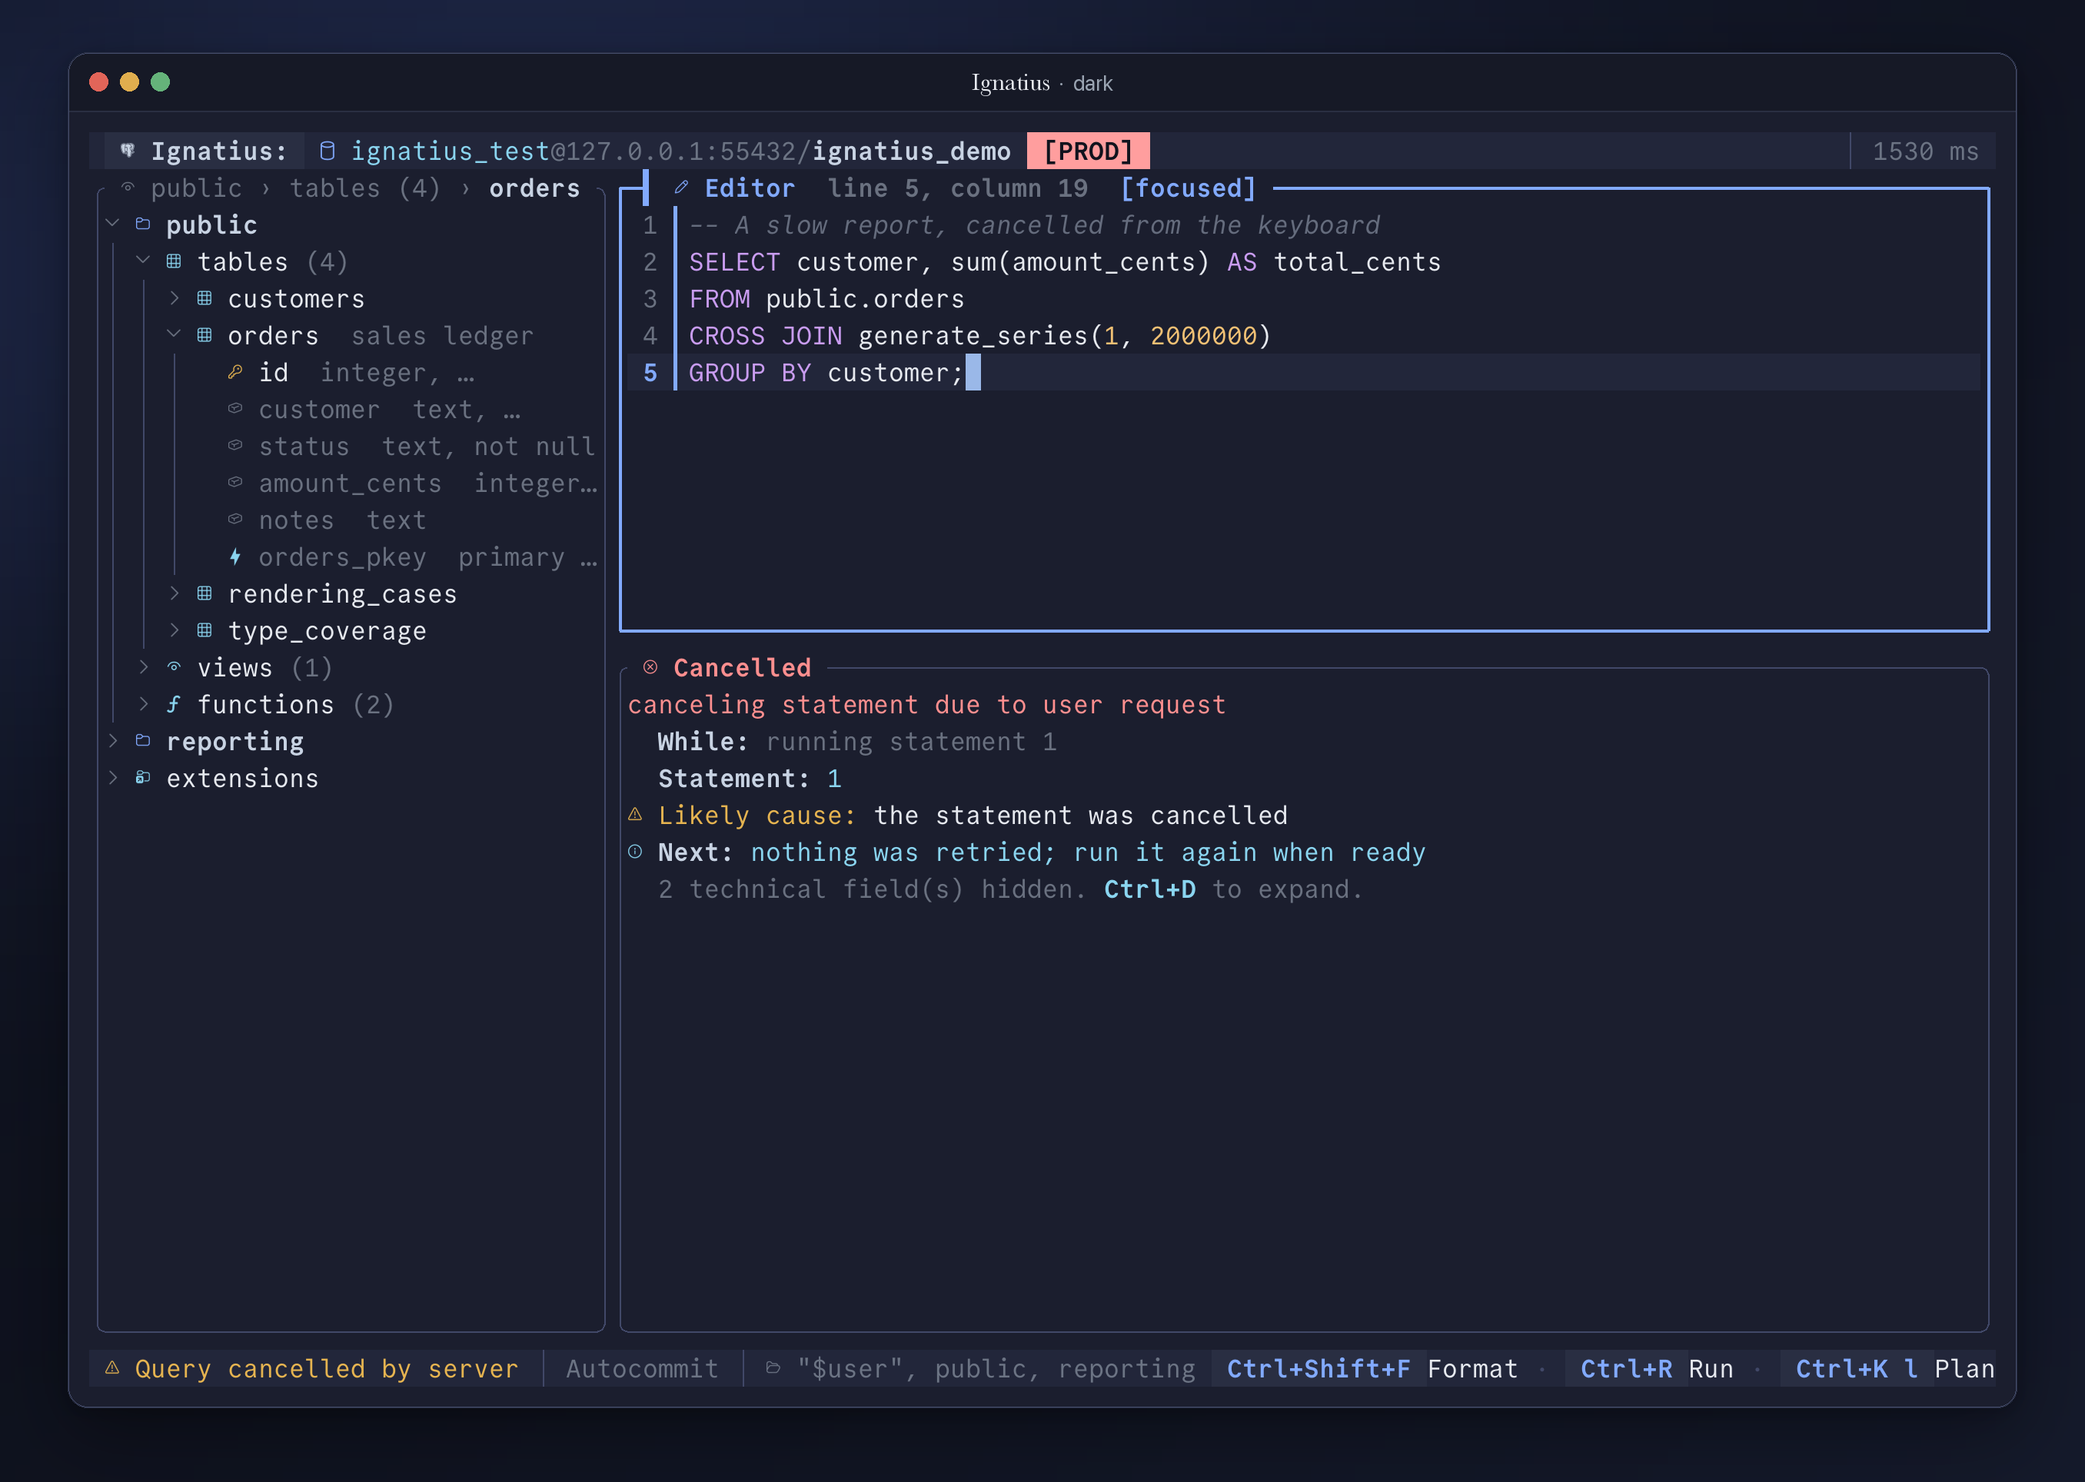
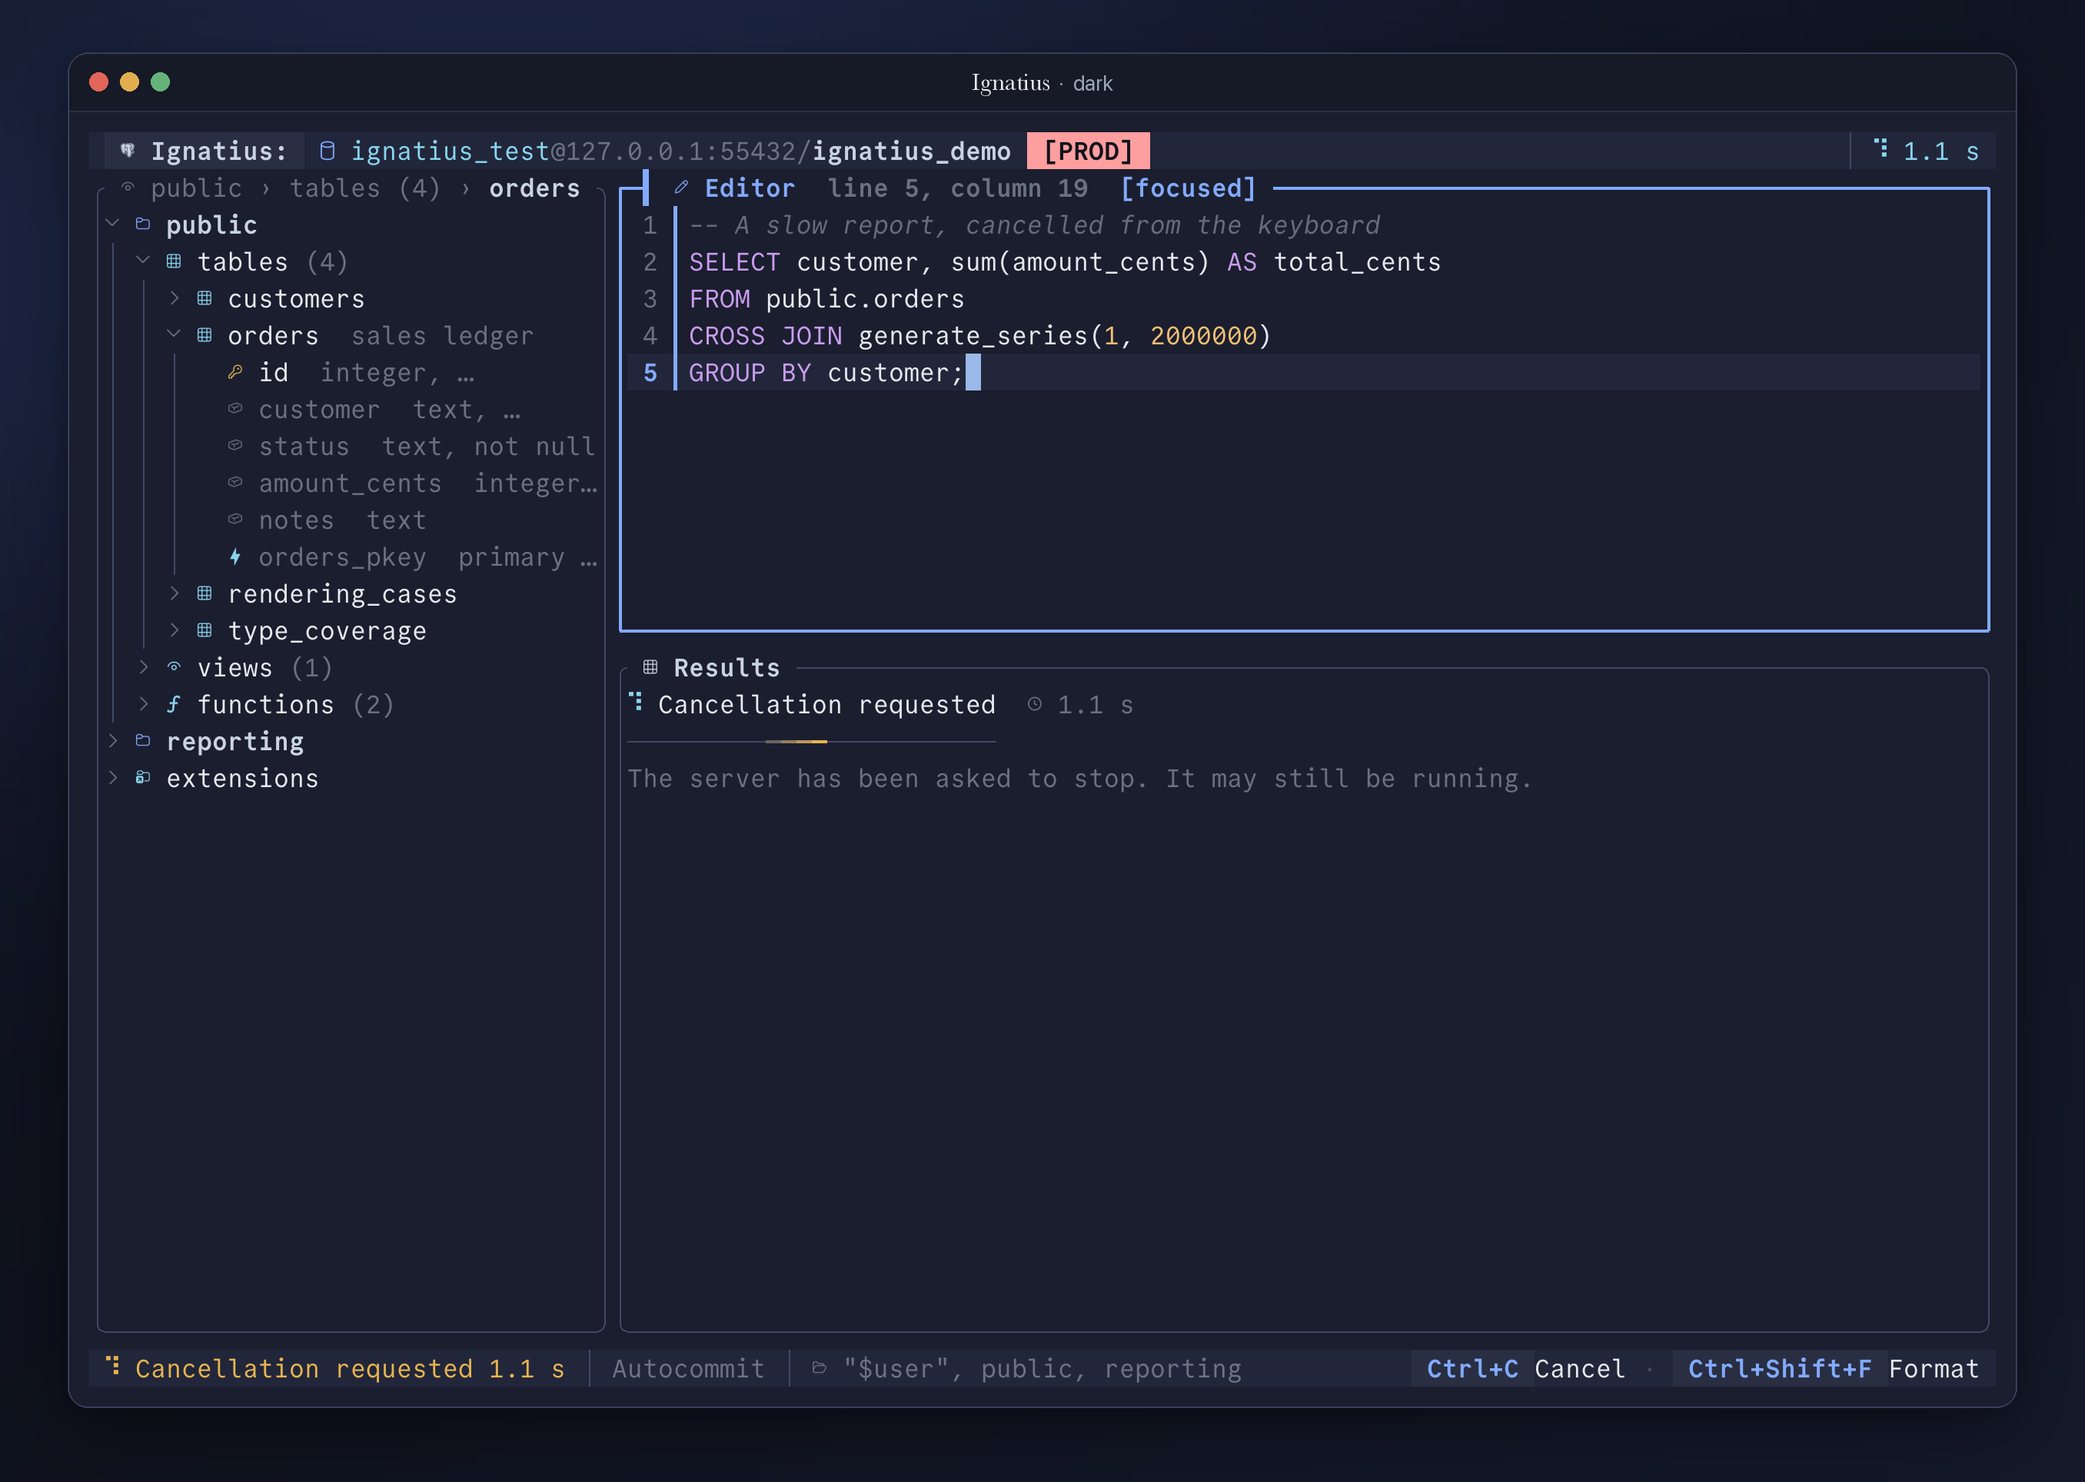
Say only what main does in the README and record the gaps
Review of #135 found claims that ran ahead of the code:

- The production confirmation sentence implied benchmarks were covered;
  on main only editor runs are, so the sentence now says so and the
  benchmark claim waits for #132.
- "Every text colour meets 4.5:1" overstated both the receded ink behind
  dialogs and what the tests pin; the README now claims text only, and
  docs/status.md records that the status-ink tests are weaker than
  Principle XI.
- Pausing history with Ctrl+K v does not stop the crash-recovery journal;
  the README said otherwise, which erred in the privacy-unsafe direction.

Smaller corrections: the comet sits under the status words, the theme
animation is not the key cycle, the palette entry's real name, progress
is unreported only for ordinary queries, honest dates in the spec and
roadmap, and the 256-colour settle steps once. The cancel animation's
reduced-motion still now shows the honest middle (cancellation requested,
not yet confirmed), and an assertion that could never fail is gone.

diff --git a/src/ui/acceptance/tests.rs b/src/ui/acceptance/tests.rs
@@ -2212,10 +2212,6 @@ fn workbench_showcase_scenes_preserve_elevated_chrome_and_overlays() {
     let buf = render_showcase(&model);
     let text = buffer_to_string(&buf);
     assert!(text.contains("While:"), "diagnostics contains While:");
-    assert!(
-        !text.contains("Object context:"),
-        "42703 carries no server object fields, so there is no object context"
-    );
     assert!(text.contains("Location:"), "diagnostics contains Location:");
     assert!(
         text.contains("Likely cause:"),
@@ -2725,8 +2721,13 @@ fn motion_cancel_honestly() -> MotionSequence {
             .any(|effect| matches!(effect, Effect::Cancel { job: cancelled } if *cancelled == job)),
         "cancelling asks the server to cancel this job: {effects:?}"
     );
-    for _ in 0..8 {
+    for frame in 0..8 {
         let buf = advance(&mut model, &mut sequence, "Cancellation requested");
+        // The still a reduced-motion reader sees is the honest middle: asked,
+        // not yet confirmed.
+        if frame == 3 {
+            sequence.mark_poster();
+        }
         let (y, _) = showcase_heartbeat(&buf, "Cancellation requested");
         assert!(heartbeat_head_ink(
             &buf,
@@ -2771,7 +2772,6 @@ fn motion_cancel_honestly() -> MotionSequence {
         "a cancellation is never faded toward calm"
     );
     let outcome = sequence.push(&model, 2_600);
-    sequence.mark_poster();
     let text = buffer_to_string(&outcome);
     for words in [
         "Query cancelled by server",

diff --git a/README.md b/README.md
@@ -44,18 +44,18 @@ Many engineers explore in a friendly tool and fall back to `psql` when the datab
   <img src="docs/assets/screenshots/workbench-overview.png" alt="The full workbench: a header naming the role, host and database with its environment marker, above the object tree, editor and results panes." width="92%" />
 </p>
 
-The header answers the questions you should not have to ask. Which role, host and database. Whether this is production, because you declared it, not because a host name looked important. Whether the session is read-only, and whether a transaction is open or has failed. For the careful question, **Connection details** in the palette says how the connection is really protected, read back from PostgreSQL itself, so `require` and `verify-full` are never described alike, and an answer the server will not give is shown as unknown. Switch colour off and every marker is still a word: `[PROD]`, `[READ ONLY]`, `[TX FAILED]`. When the terminal is narrow, decoration gives way first; those words stay.
+The header answers the questions you should not have to ask. Which role, host and database. Whether this is production, because you declared it, not because a host name looked important. Whether the session is read-only, and whether a transaction is open or has failed. For the careful question, **Connection and auth details** in the palette says how the connection is really protected, read back from PostgreSQL itself, so `require` and `verify-full` are never described alike, and an answer the server will not give is shown as unknown. Switch colour off and every marker is still a word: `[PROD]`, `[READ ONLY]`, `[TX FAILED]`. When the terminal is narrow, decoration gives way first; those words stay.
 
 ### The answer, as it is
 
 <p align="center">
   <picture>
     <source media="(prefers-reduced-motion: reduce)" srcset="docs/assets/motion/run-and-settle-still.png" />
-    <img src="docs/assets/motion/run-and-settle.png" alt="A statement running in the atelier theme: a short comet travels back and forth beside the word Running and the elapsed time, then the rows arrive and the word Completed settles from green to its resting colour." width="92%" />
+    <img src="docs/assets/motion/run-and-settle.png" alt="A statement running in the atelier theme: a short comet moves along a track under the word Running and the elapsed time, then the rows arrive and the word Completed settles from green to its resting colour." width="92%" />
   </picture>
 </p>
 
-While a statement runs, a small comet travels back and forth beside the word `Running` and the elapsed time. It never arrives anywhere, because PostgreSQL reports no progress for a running statement and Ignatius will not invent one. When the rows land, the word `Completed` glows briefly and settles, so even an identical rerun is visibly new. A NULL reads `[null]`, an empty string stays empty, and the text `NULL` stays text.
+While a statement runs, a small comet travels back and forth on a track under the word `Running` and the elapsed time. It never arrives anywhere, because PostgreSQL reports no progress for an ordinary query and Ignatius will not invent one. When the rows land, the word `Completed` glows briefly and settles, so even an identical rerun is visibly new. A NULL reads `[null]`, an empty string stays empty, and the text `NULL` stays text.
 
 <p align="center">
   <picture>
@@ -73,7 +73,7 @@ Press `Ctrl+C` and the status reads `Cancellation requested` until the server co
     <td align="center" width="50%">
       <img src="docs/assets/screenshots/error-diagnostics.png" alt="A query error naming a misspelled column and marking it with a caret in the statement, followed by a likely cause, a next step and the SQLSTATE code." />
       <br />
-      <sub>An error points, and never guesses.</sub>
+      <sub>An error points at the token the server named.</sub>
     </td>
     <td align="center" width="50%">
       <img src="docs/assets/screenshots/reviewed-update.png" alt="A review showing the exact bound UPDATE generated from a selected cell, with the note that nothing has been sent yet." />
@@ -83,7 +83,7 @@ Press `Ctrl+C` and the status reads `Cancellation requested` until the server co
   </tr>
 </table>
 
-When the server's error position maps to the statement you sent, Ignatius marks the token, names a likely cause and a next step, and keeps the technical fields one key away. Editing a cell produces the exact `UPDATE` for you to read before anything leaves the client, and it is refused on production and read-only sessions. On a production connection, statements that write wait for confirmation, and destructive ones ask you to type the database name. Benchmarks roll back every run by default. These checks read SQL keywords and are advisory; `--read-only`, which PostgreSQL itself enforces, is the real control.
+When the server's error position maps to the statement you sent, Ignatius marks the token, names a likely cause and a next step, and keeps the technical fields one key away. Editing a cell produces the exact `UPDATE` for you to read before anything leaves the client, and it is refused on production and read-only sessions. On a production connection, statements you run from the editor that write wait for confirmation, and destructive ones ask you to type the database name. These checks read SQL keywords and are advisory; `--read-only`, which PostgreSQL itself enforces, is the real control.
 
 ### Everything is a few keys away
 
@@ -98,11 +98,11 @@ When the server's error position maps to the statement you sent, Ignatius marks 
 <p align="center">
   <picture>
     <source media="(prefers-reduced-motion: reduce)" srcset="docs/assets/motion/theme-curtain-still.png" />
-    <img src="docs/assets/motion/theme-curtain.png" alt="Cycling through the dark, atelier, paper and material themes: each new palette sweeps across the panes from left to right in about a third of a second, while the header and footer change at once." width="92%" />
+    <img src="docs/assets/motion/theme-curtain.png" alt="Switching between the dark, atelier, paper and material themes: each new palette sweeps across the panes from left to right in about a third of a second, while the header and footer change at once." width="92%" />
   </picture>
 </p>
 
-Seven built-in themes, from the warm dark of `atelier` to the archival light of `paper`, switch from the palette without reconnecting, and `ui.theme = "auto"` asks your terminal whether its background is light or dark. A new palette sweeps across the panes in about a third of a second; the header and footer change first, so a safety marker is never split between two themes. Every text colour in every built-in theme meets 4.5:1 contrast against every surface, and tests hold it there. Icons are optional and never carry meaning alone. Motion is brief, never the only signal, never plays over a confirmation, and is gone entirely with `ui.reduced-motion = true`.
+Seven built-in themes, from the warm dark of `atelier` to the archival light of `paper`, switch from the palette without reconnecting, and `ui.theme = "auto"` asks your terminal whether its background is light or dark. A new palette sweeps across the panes in about a third of a second; the header and footer change first, so a safety marker is never split between two themes. Text in every built-in theme meets 4.5:1 contrast against every surface, and tests hold it there; the ink behind an open dialog is deliberately quieter. Icons are optional and never carry meaning alone. Motion is brief, never the only signal, never plays over a confirmation, and is gone entirely with `ui.reduced-motion = true`.
 
 <details>
 <summary>All themes</summary>
@@ -180,7 +180,7 @@ Seven built-in themes, from the warm dark of `atelier` to the archival light of 
 
 </details>
 
-Every image and animation here is drawn from the interface's own widget buffers over synthetic data. Nothing is mocked up, and no frame is tweened.
+Every image and animation here is rendered from the interface's own widget buffers over synthetic data, inside a drawn window frame. No frame is tweened.
 
 ---
 
@@ -316,8 +316,8 @@ In order: the connection string, `PGPASSWORD`, a `.pgpass` file, then a masked p
 
 - **Nothing goes anywhere else.** No telemetry, no update check, no account and no sync. Ignatius opens network connections only to the databases you point it at.
 - **Result rows are never stored** unless you export them.
-- **History records the SQL that ran, never what came back**, and skips any statement that mentions something like a password or token. Pause it with `Ctrl+K v` or `--no-history`, or turn it off with `history.enabled = false`.
-- **Unsaved buffers survive a crash**, unless history is off for that session, in which case nothing is kept. The recovery journal holds editor text only, and you decide what happens to it:
+- **History records the SQL that ran, never what came back**, and skips any statement that mentions something like a password or token. Pause it with `Ctrl+K v`, skip it for one session with `--no-history`, or turn it off with `history.enabled = false`.
+- **Unsaved buffers survive a crash**, unless the session started with `--no-history` or `history.enabled = false`, in which case nothing is kept; pausing with `Ctrl+K v` stops history but not the journal. The recovery journal holds editor text only, and you decide what happens to it:
 
 ```bash
 ignatius recovery status

diff --git a/docs/status.md b/docs/status.md
@@ -4,7 +4,7 @@
 `git log`, `specs/001-foundation-vertical-slice/tasks.md`, and the working tree
 before trusting anything else.
 
-## Wave 68 - Living surfaces, supply-chain audit and a quieter README - 23 November 2026
+## Wave 68 - Living surfaces, supply-chain audit and a quieter README - 23 and 24 November 2026
 
 Feature 063 (`063-living-surfaces-and-truthful-motion`, milestone M17) was
 specified, built by parallel agents in isolated worktrees, independently
@@ -50,7 +50,11 @@ reviewed per pull request, and merged on hosted green CI.
   the wrong gated statement, retry after a failed cancel, A's failure masked by
   B's report, Cancel routing in the plan-diff overlay); the remaining work is
   listed in #132.
-- **Found and not fixed:** plan-diff `EXPLAIN ANALYZE` inside an open workbench
+- **Found and not fixed:** the built-in theme tests pin status inks (Focus,
+  Success, Warning, Danger, Info, environment and transaction) at 3.0:1 for
+  `dark`, `light`, `field-industrial` and `material`, while Principle XI says
+  every non-border token is pinned at 4.5:1 (the current values all clear 4.5:1;
+  the tests are weaker than the principle). Plan-diff `EXPLAIN ANALYZE` inside an open workbench
   transaction ends that transaction (its own BEGIN/ROLLBACK bracket); the spec
   025 `presentation.md` quiet-chrome text predates the new header yield order;
   the plan explorer's attention marker scores inclusive time and so usually

diff --git a/docs/product/roadmap.md b/docs/product/roadmap.md
@@ -238,7 +238,7 @@ of 2026-11-21:
   visuals.
 
 M17 (`063-living-surfaces-and-truthful-motion`) is delivered in source as of
-2026-11-23:
+2026-11-24 (#131, #133, #134, #135):
 
 - [063 Living Surfaces and Truthful Motion](../../specs/063-living-surfaces-and-truthful-motion/spec.md)
   adds a pure motion core with a separate 33 ms cadence that runs only while a
@@ -249,6 +249,8 @@ M17 (`063-living-surfaces-and-truthful-motion`) is delivered in source as of
   width, and deterministic animated captures rendered from real widget buffers.
   The focus sweep and overlay arrival fade were specified and then cut after
   design review, because they fired too often to earn their motion.
+  The benchmark overlay's unguarded `m` re-run, found during review, is still
+  on `main` and continues in #132.
 
 ```mermaid
 flowchart LR

diff --git a/CHANGELOG.md b/CHANGELOG.md
@@ -17,7 +17,8 @@ source can generate user-facing notes.
 - New: The Results status word of a complete, successful result settles from
   the success colour to its resting colour over about half a second, so an
   identical rerun is visibly new. Failed, cancelled and truncated outcomes keep
-  their colours, and lower colour depths stay still.
+  their colours; 16-colour and colour-off terminals stay still, and
+  256-colour terminals change once at the midpoint.
 - Improved: The running indicator is a heartbeat comet that travels back and
   forth and never fills, so it can no longer read as progress, and turns amber
   while cancellation is requested.

diff --git a/specs/063-living-surfaces-and-truthful-motion/spec.md b/specs/063-living-surfaces-and-truthful-motion/spec.md
@@ -2,7 +2,7 @@
 
 **Feature Branch**: `feat/063-living-surfaces-core` (core), then per-wave branches
 **Created**: 2026-11-23
-**Status**: Delivered on 2026-11-23 (PRs #131, #133, #134 and the Wave 3 showcase). Benchmark safety found during review continues in #132.
+**Status**: Delivered. Waves 1 and 2 merged on 2026-11-23 (#131, #133, #134); the Wave 3 showcase merged with #135 on 2026-11-24. The unguarded benchmark `m` re-run found during review is still on `main` and continues in #132.
 **Milestone**: M17 - Living Surfaces
 
 ## Problem Statement
